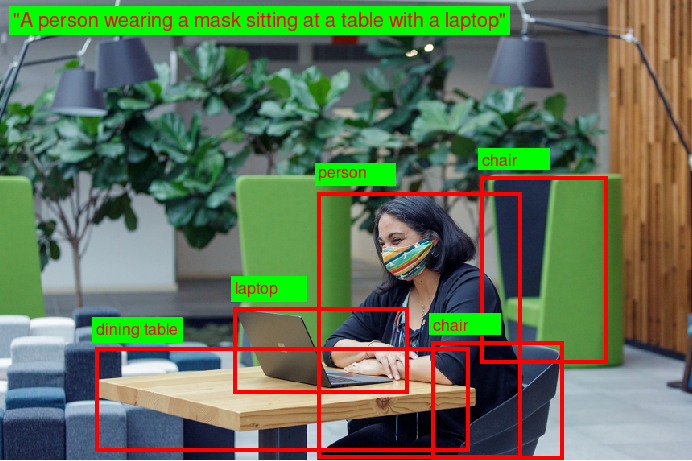
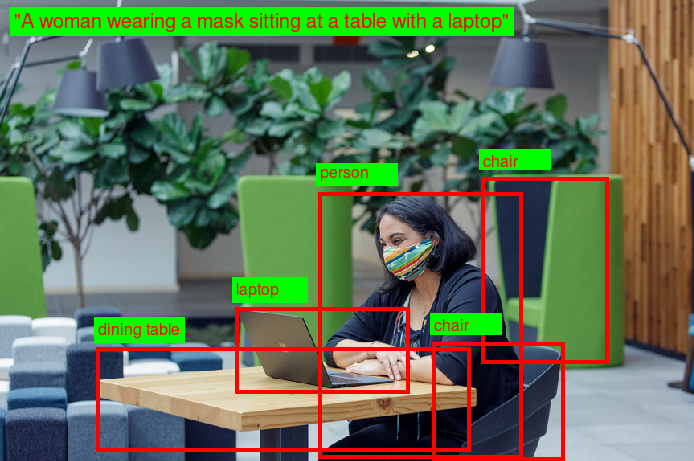
Update image

diff --git a/README.md b/README.md
@@ -51,7 +51,7 @@ Alternatively, you can contact Microsoft's Vision SDK development team directly 
 
 See Microsoft documentation for an overview of [Image Analysis](https://learn.microsoft.com/azure/cognitive-services/computer-vision/overview-image-analysis). The Vision SDK Image Analysis APIs (preview) uses [Image Analysis REST API v4.0 (preview)](docs/image-analysis/Image-Analysis-2023-02-01-preview-API-doc.md). The Image Analysis APIs supports the extraction of one or more of the following features using a single REST call:
 
-* **Caption** - Generates a human-readable phrase that describes the image content. For example, for the above image, "A person wearing a mask sitting at a table with a laptop".
+* **Caption** - Generates a human-readable phrase that describes the image content. For example, for the above image, "A woman wearing a mask sitting at a table with a laptop".
 * **Tags** - Returns content tags for recognizable objects, living beings, scenery, and actions that appear in the image.
 * **Objects** - Detects various objects within an image, including their approximate location. See example in the above image: person, two chairs, laptop, dining table.
 * **People** - Detects people in the image, including their approximate location.
